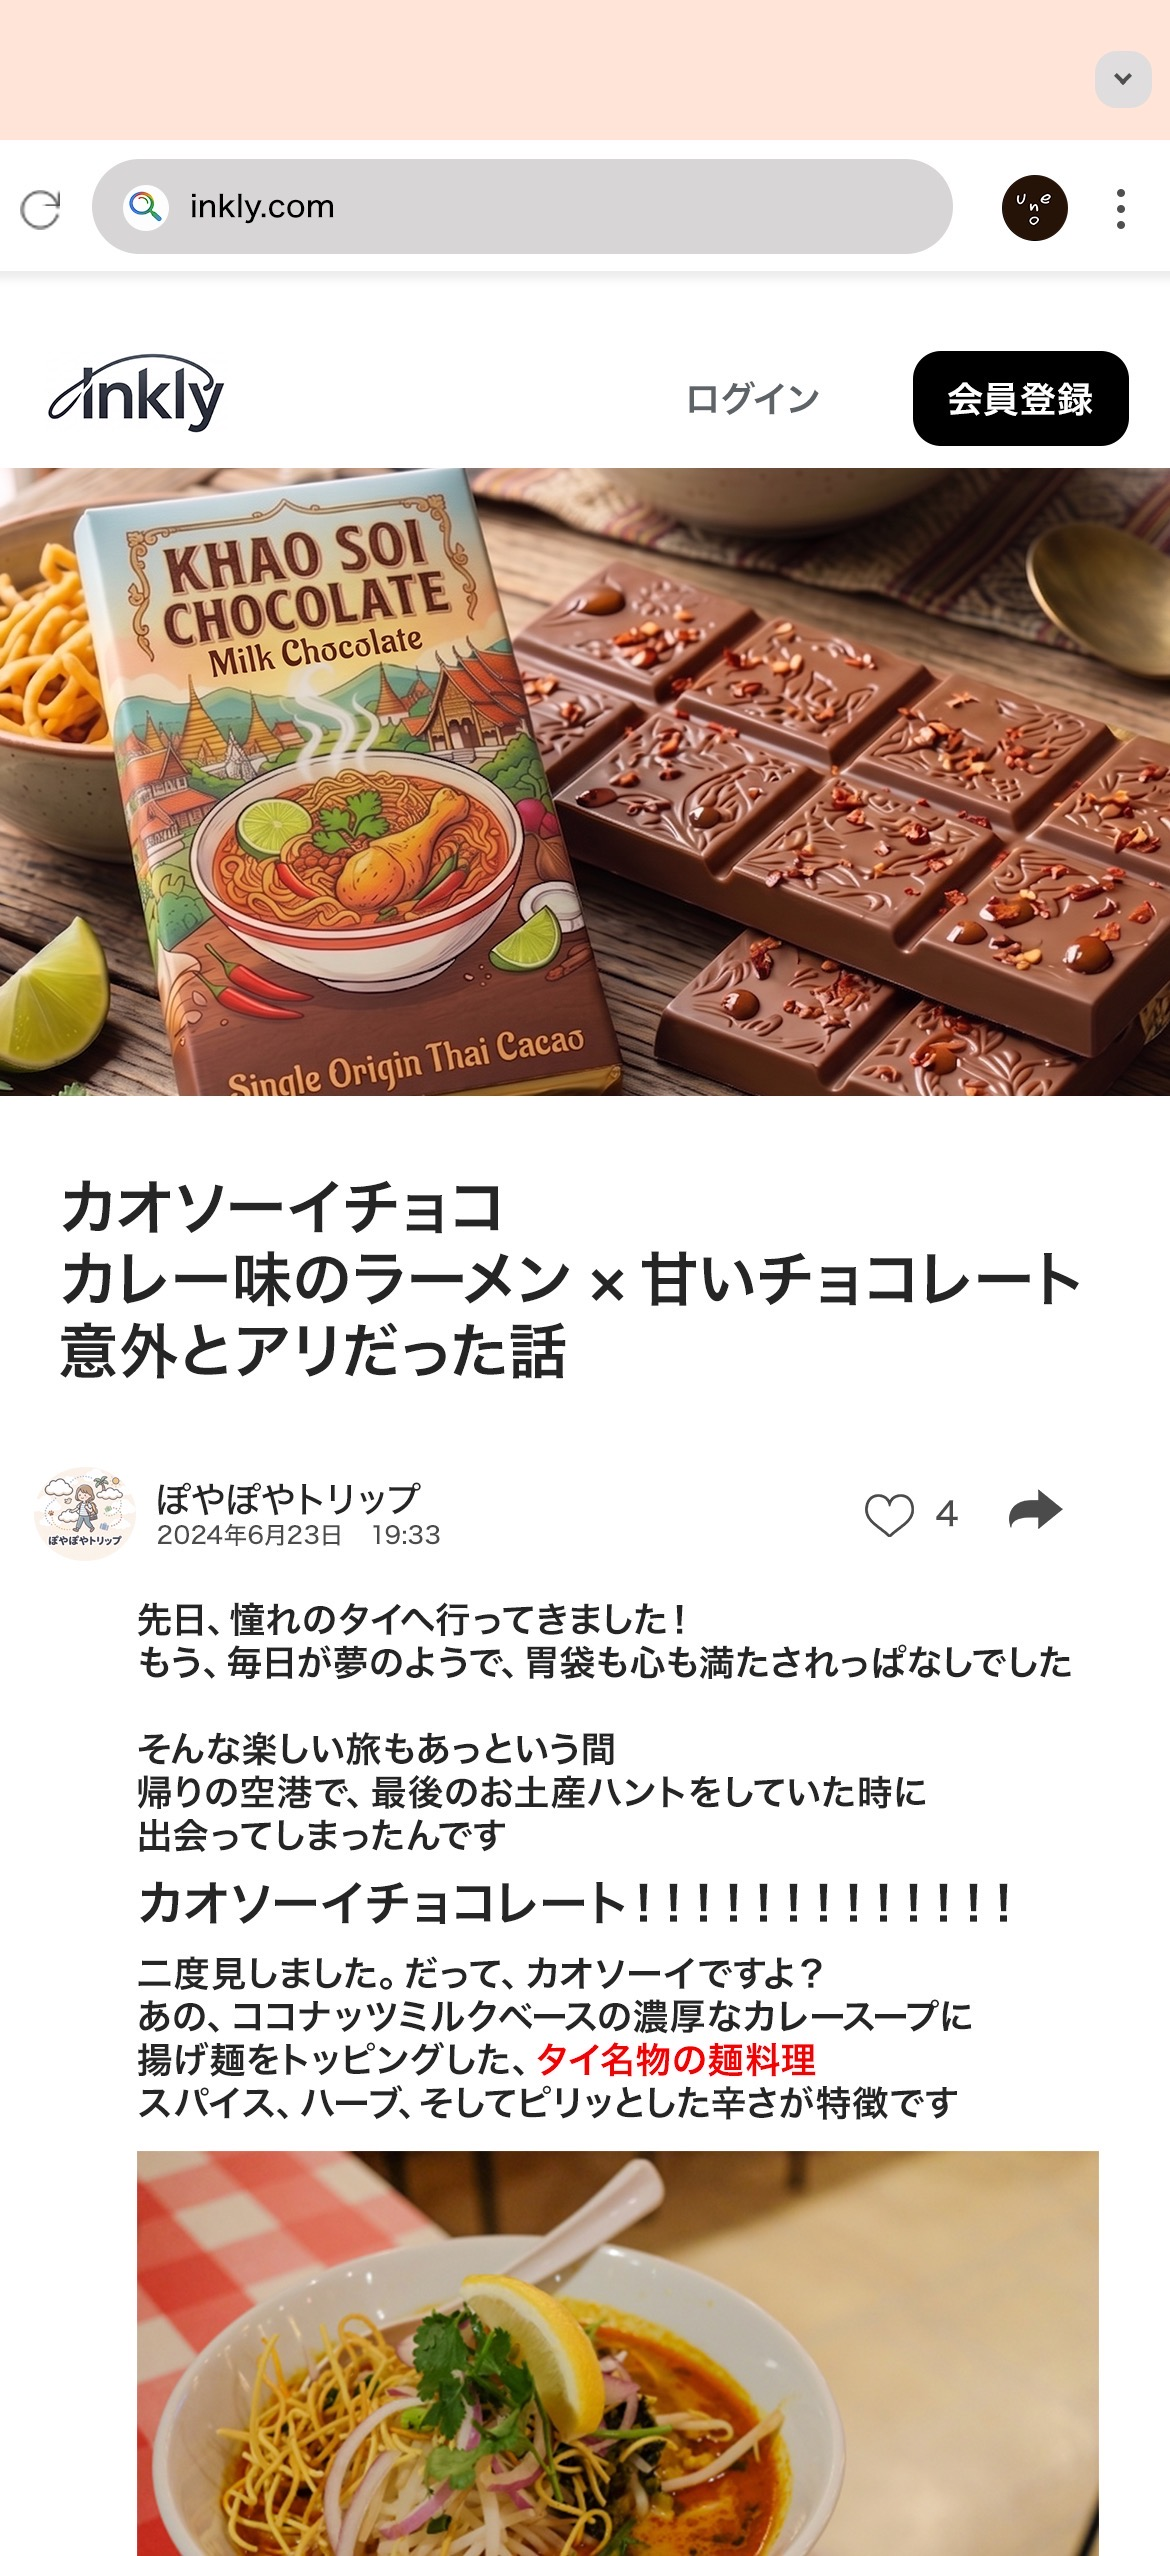
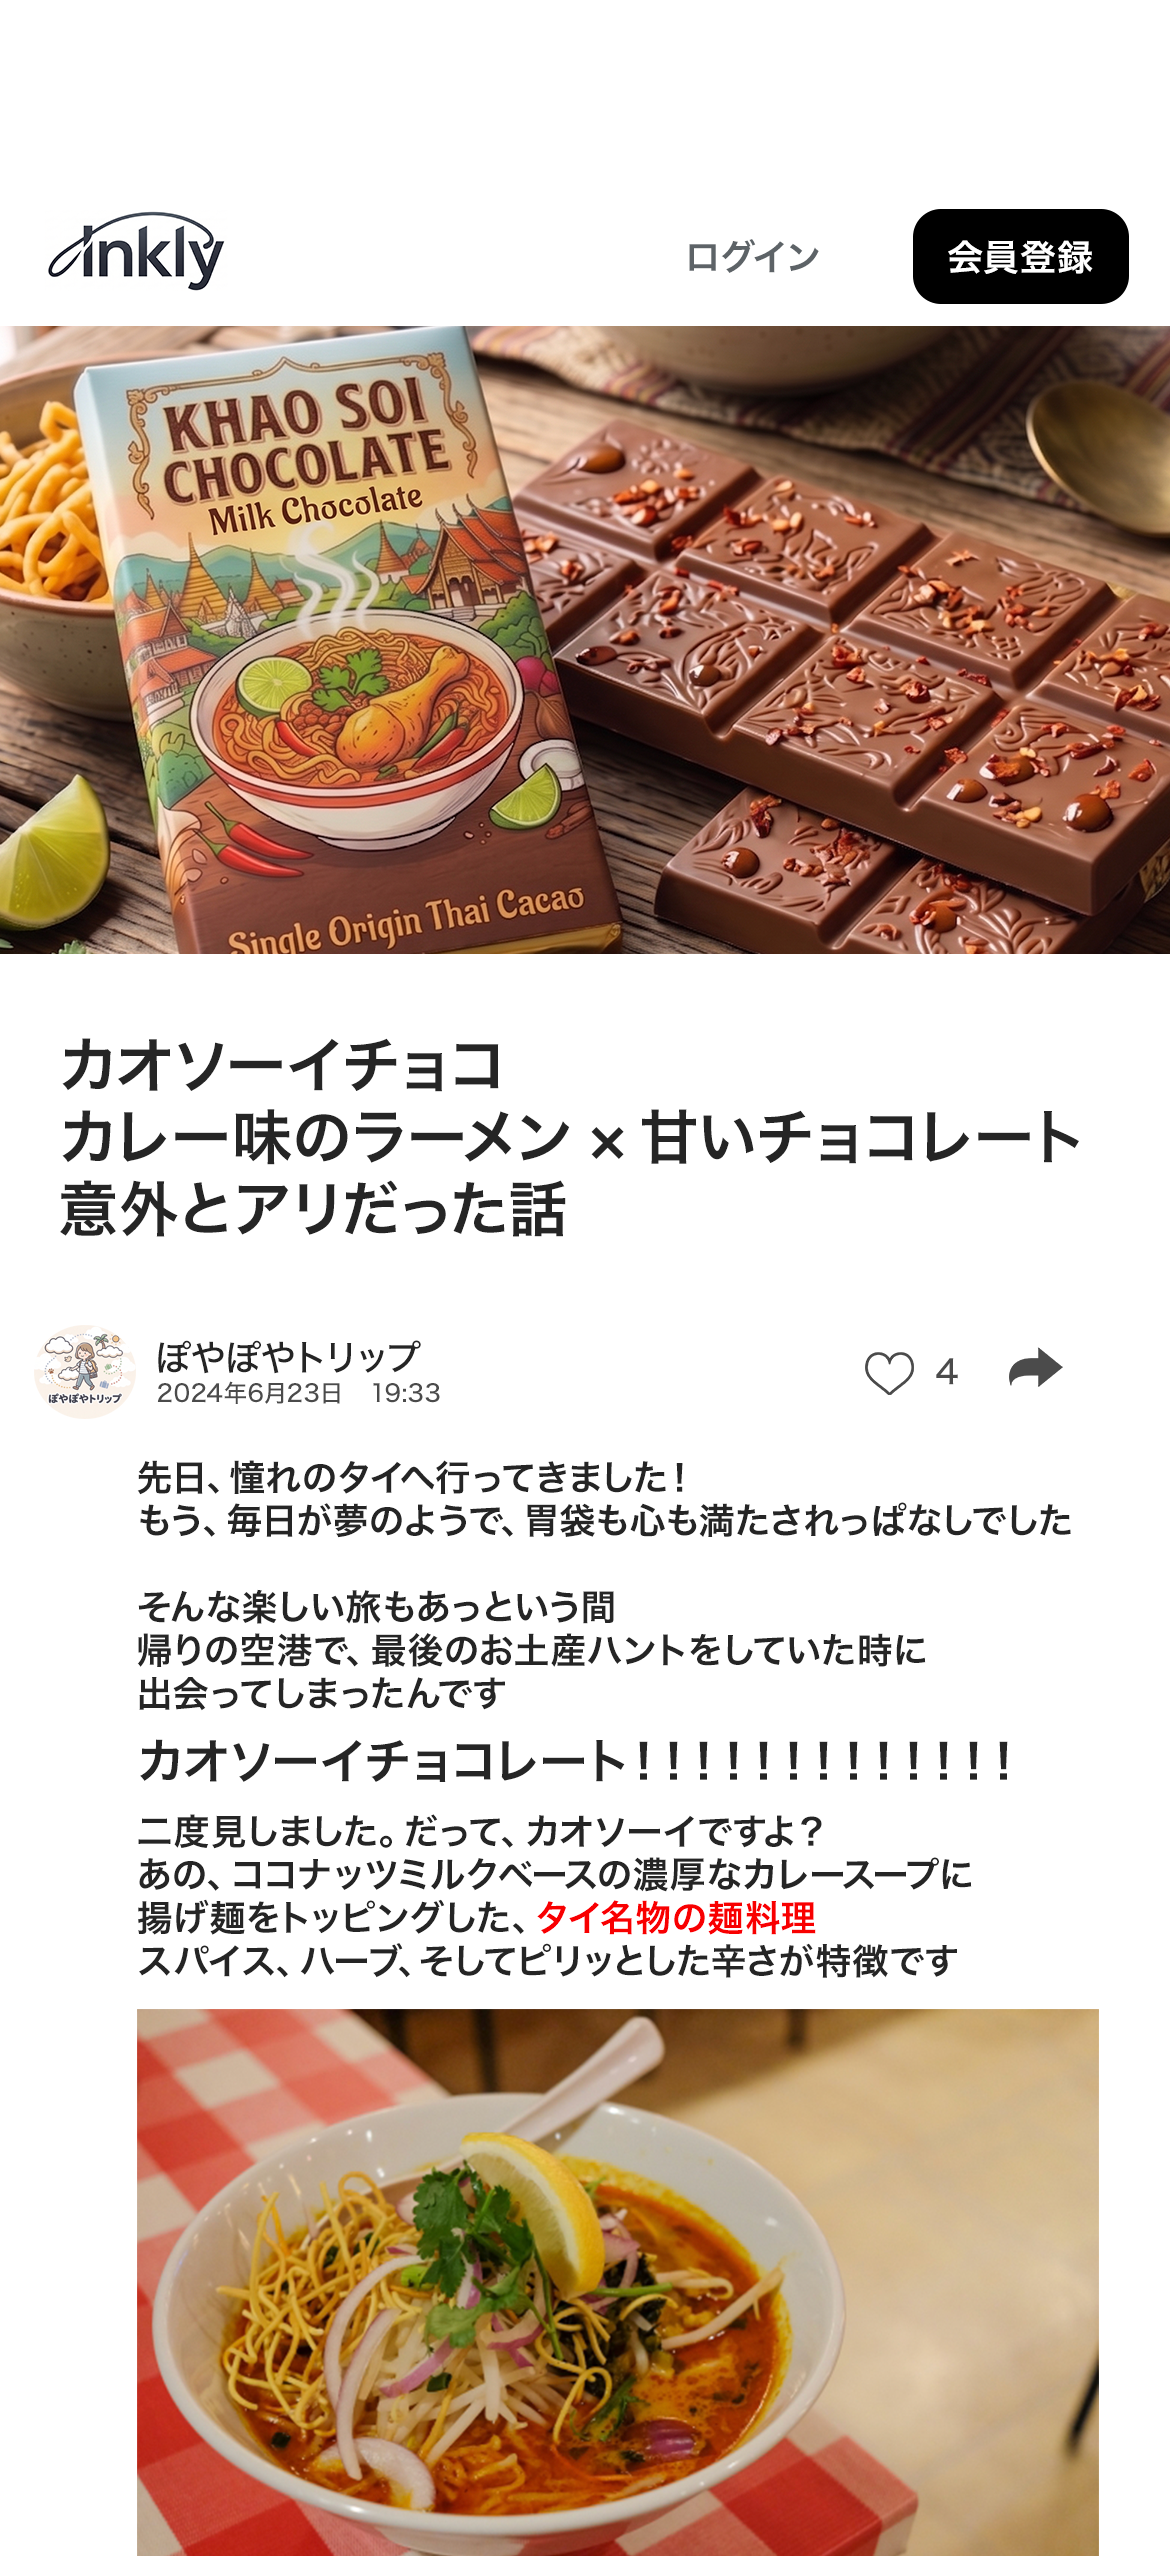
Add files via upload

diff --git a/ui.html b/ui.html
@@ -7,56 +7,75 @@
 content="width=device-width, initial-scale=1.0, maximum-scale=1.0, user-scalable=no">
 
 <style>
+
 html, body{
     margin:0;
     padding:0;
     background:white;
     width:100%;
     height:100%;
-}
-
-/* 整個頁面 */
-.page{
-    position:relative;
-    width:100vw;
-    height:100vh;
-    max-width:390px;
-    margin:0 auto;
     overflow:hidden;
 }
 
-/* 背景圖完整塞進畫面，不裁切 */
-.bg{
-    position:absolute;
-    top:0;
-    left:0;
-    width:100%;
-    height:100%;
-    Object-fit:cover;
+/* 整個頁面 */
+
+.page{
+    position:relative;
+
+    width:100vw;
+    max-width:390px;
+
+    height:100vh;
+
+    margin:auto;
+
+    overflow:hidden;
 }
 
-/* 透明點擊區域 */
+/* 背景圖 */
+
+.bg{
+    width:100%;
+    display:block;
+
+    /* 往上微調 */
+    transform:translateY(-20px);
+}
+
+/* 第二個搜尋結果點擊區域 */
+
 .link{
+
     position:absolute;
 
-    top:54.8%;
-    left:1%;
-    width:100%;
-    height:6.3%;
+    top:60%;
+    left:0%;
+
+    width:98%;
+    height:6.5%;
 
     display:block;
+
+    border-radius:12px;
 }
+
+/* 點擊時效果 */
+
 .link:active{
     background:rgba(0,0,0,0.08);
 }
+
 </style>
 </head>
 
 <body>
 
 <div class="page">
-    <img src="ui.png" class="bg">
-    <a href="choco.html" class="link"></a>
+
+<img src="ui.png" class="bg">
+
+<a href="choco.html" class="link"></a>
+
 </div>
 
 </body>